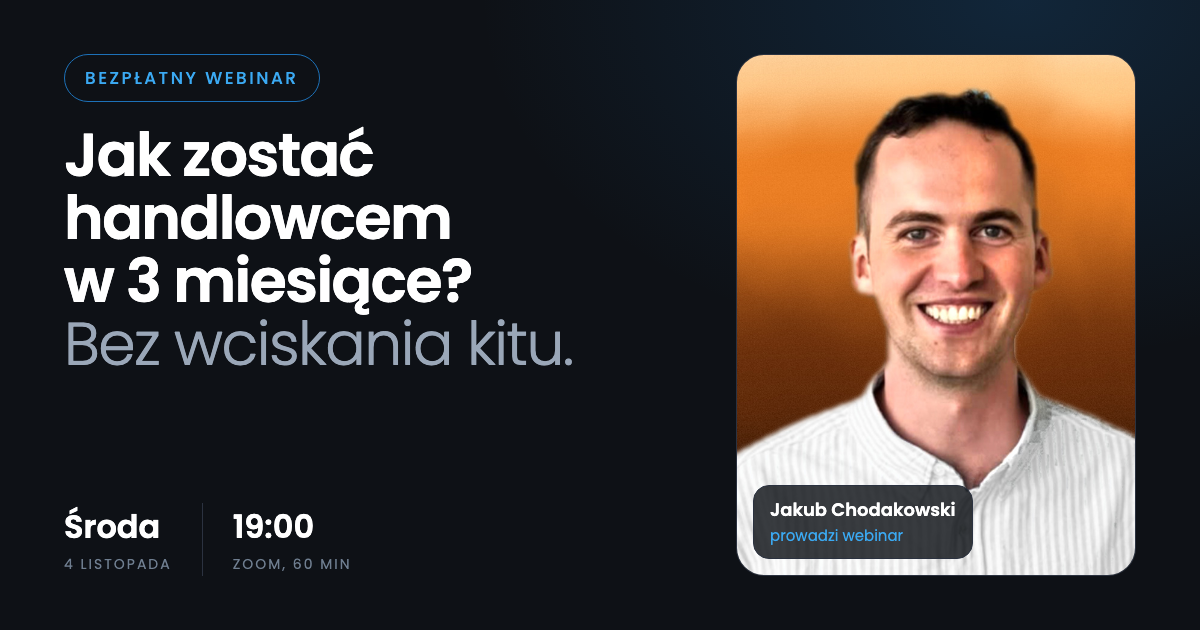
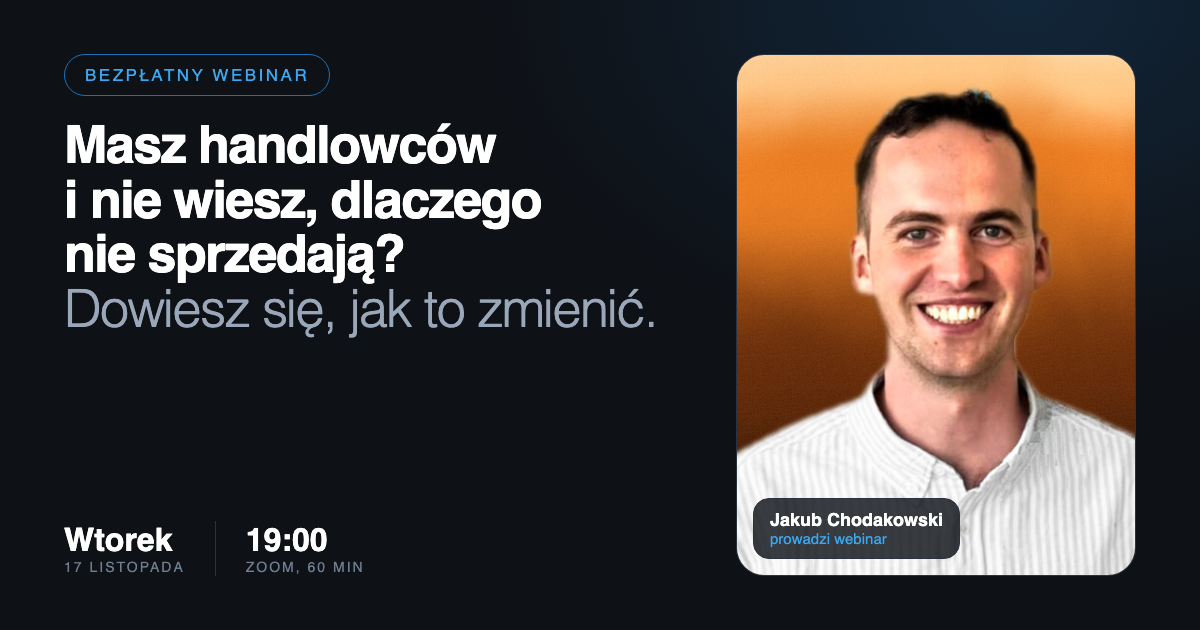
Bruno: webinar dla firm wt 17.11 19:00 „Masz handlowców i nie wiesz, dlaczego nie sprzedają?” (LP, maile, cron, OG, nowy Zoom, bez testu predyspozycji)

diff --git a/lib/bruno/mail-webinar.ts b/lib/bruno/mail-webinar.ts
@@ -19,7 +19,7 @@ export const ADRES_WEBINARU = "jakub@salesbruno.com";
 export const NADAWCA_WEBINARU = `Jakub Chodakowski <${ADRES_WEBINARU}>`;
 /** Klauzula z pop-upu, powtórzona w mailu potwierdzającym (Aniserowicz 02-07: „bo nie wiemy, kto wpisał adres”). */
 export const KLAUZULA_WEBINARU =
-  "Zapisując się, wyrażasz zgodę na otrzymywanie od Jakuba Chodakowskiego wiadomości o tym webinarze i o szkoleniach sprzedaży z AI. Administratorem Twoich danych jest Jakub Chodakowski. Dane będą przetwarzane do celów związanych z webinarem i wysyłką wiadomości. Jeśli to nie Ty podałeś ten adres, po prostu zignoruj tę wiadomość: bez kliknięcia nic więcej nie wyślę.";
+  "Zapisując się, wyrażasz zgodę na otrzymywanie od Jakuba Chodakowskiego wiadomości o tym webinarze i o treningu handlowców z AI. Administratorem Twoich danych jest Jakub Chodakowski. Dane będą przetwarzane do celów związanych z webinarem i wysyłką wiadomości. Jeśli to nie Ty podałeś ten adres, po prostu zignoruj tę wiadomość: bez kliknięcia nic więcej nie wyślę.";
 
 const F = "-apple-system,BlinkMacSystemFont,'Segoe UI',Helvetica,Arial,sans-serif";
 const esc = (s: string) => String(s ?? "").replace(/&/g, "&amp;").replace(/</g, "&lt;").replace(/>/g, "&gt;");
@@ -92,12 +92,14 @@ export function mailWebinarPotwierdz(a: { imie: string | null; link: string }): 
         przyciskPotwierdz("Potwierdzam zapis", a.link),
         p("<b>Co dalej:</b>"),
         lista([
-          "Po kliknięciu od razu zobaczysz link do spotkania na Zoomie i krótki test (4 pytania), który omówię na webinarze.",
+          WEBINAR.test
+            ? "Po kliknięciu od razu zobaczysz link do spotkania na Zoomie i krótki test (4 pytania), który omówię na webinarze."
+            : "Po kliknięciu od razu dostaniesz mail z linkiem do spotkania na Zoomie i planem 60 minut.",
           `Dzień przed (${WEBINAR.dataPLDzienPrzed.slice(8)}.11) i godzinę przed startem przypomnę mailem.`,
           "Nagrania nie będzie, więc wpisz termin do kalendarza (linki będą w następnym mailu).",
         ]),
         p(`Jeśli ta wiadomość trafiła do „Ofert” albo spamu, przenieś ją do głównej skrzynki i dodaj adres <b>${ADRES_WEBINARU}</b> do kontaktów. Wtedy link i przypomnienia też tam trafią.`),
-        p("Widzimy się w środę."),
+        p(`Widzimy się ${WEBINAR.dzienWe}.`),
       ].join("\n"),
     }),
   };
@@ -122,7 +124,10 @@ export function mailWebinarPotwierdzenie(a: Odbiorca): MailWebinaru {
         kalendarz(a.baza),
         p("<b>Plan 60 minut:</b>"),
         lista(WEBINAR.plan.map(([g, h]) => `<b>${esc(g)}</b> ${esc(h)}`)),
-        a.test
+        // 10.11: webinar dla firm (bez testu) = jedna liczba do policzenia przed spotkaniem.
+        !WEBINAR.test
+          ? p("Zanim się spotkamy, zrób jedną rzecz: policz, <b>ilu Twoich handlowców zrobiło w zeszłym miesiącu wynik, którego oczekujesz</b>. Jeśli robi go jeden z trzech, to nie jest problem rynku, tylko umiejętności reszty. Od tego zaczniemy o 19:00.")
+          : a.test
           ? p(`Zanim się spotkamy, zrób jedną rzecz: <b>test „Jakim jesteś handlowcem?”</b>, 4 pytania. Na początku webinaru omawiam wyniki. <a href="${esc(a.test)}" style="color:#111111;font-weight:700">Robię test »</a>`)
           : p("Twój wynik testu już mam. Na początku webinaru powiem, co z niego wynika."),
       ].join("\n"),
@@ -135,7 +140,9 @@ export function mailWebinarJutro(a: Odbiorca): MailWebinaru {
   return {
     temat: `Jutro ${WEBINAR.godzina}: ${WEBINAR.tytul.toLowerCase()}`,
     html: koperta({
-      ps: a.test
+      ps: !WEBINAR.test
+        ? "Odpisz na tego maila jednym zdaniem: <b>co sprzedajecie i jaką obiekcję słyszycie najczęściej</b>. Czytam każdą odpowiedź."
+        : a.test
         ? `Nie masz jeszcze wyniku testu (4 pytania), a od niego zaczynam: <a href="${esc(a.test)}" style="color:#111111;font-weight:700">robię test »</a>`
         : "Odpisz na tego maila jednym zdaniem: <b>co Cię najbardziej powstrzymuje przed pracą w sprzedaży</b>. Czytam każdą odpowiedź i odpowiem na webinarze.",
       zajawka: "Link do Zooma w środku. 60 minut, bez nagrania.",
@@ -145,7 +152,7 @@ export function mailWebinarJutro(a: Odbiorca): MailWebinaru {
         p(`jutro o <b>${esc(WEBINAR.godzina)}</b> widzimy się na Zoomie. Nagrania nie będzie, więc zarezerwuj godzinę w kalendarzu.`),
         linia("Link do spotkania na Zoomie", WEBINAR.zoom),
         kalendarz(a.baza),
-        p("Na żywo pokażę pierwszą rozmowę z klientem AI, który mówi „nie mam czasu” i „muszę się zastanowić”. Zobaczysz, że tego da się nauczyć."),
+        p(WEBINAR.test ? "Na żywo pokażę pierwszą rozmowę z klientem AI, który mówi „nie mam czasu” i „muszę się zastanowić”. Zobaczysz, że tego da się nauczyć." : "Na żywo pokażę rozmowę handlowca z klientem AI. Klient AI może być z Twojej branży."),
       ].join("\n"),
     }),
   };
@@ -167,7 +174,7 @@ export function mailWebinarDzis(a: Odbiorca): MailWebinaru {
         lista([
           "Komputer albo telefon z Zoomem (działa też w przeglądarce).",
           "Słuchawki.",
-          a.test ? `Wynik testu „Jakim jesteś handlowcem?”: <a href="${esc(a.test)}" style="color:#111111">zrób go teraz, 4 pytania</a>.` : "Twój wynik testu, który już zrobiłeś.",
+          !WEBINAR.test ? "Liczba: ilu handlowców zrobiło w zeszłym miesiącu wynik, którego oczekujesz." : a.test ? `Wynik testu „Jakim jesteś handlowcem?”: <a href="${esc(a.test)}" style="color:#111111">zrób go teraz, 4 pytania</a>.` : "Twój wynik testu, który już zrobiłeś.",
         ]),
       ].join("\n"),
     }),
@@ -204,27 +211,23 @@ export type GrupaPoWebinarze = "byli" | "wyszli" | "nieprzyszli";
 
 /**
  * M5: dzień po webinarze, 3 grupy (wzór Huzarski, PLAN 16.10): byli do końca / wyszli przed końcem / zapisali się i nie przyszli.
- * 31.10 (USER_001): webinar dla grupy A, więc jedno wezwanie = szkolenie 3 mies. z gwarancją pracy (WEBINAR.oferta).
- * Nagrania NIE wysyłamy. Bez sztucznych terminów (UOKiK): cena i warunki jak na stronie szkolenia.
+ * 10.11 (USER_001): webinar dla firm, jedno wezwanie = spotkanie online 20 min z demo (WEBINAR.demo). Nagrania NIE wysyłamy.
+ * Wersja dla przyszłych handlowców (31.10, szkolenie 3 mies.) w historii git.
  */
 export function mailWebinarPo(a: { imie: string | null; grupa: GrupaPoWebinarze; wypisz?: string }): MailWebinaru {
-  const oferta = linia("Zobacz szkolenie i swoją ścieżkę", WEBINAR.oferta);
-  const warunki = lista([
-    "3 miesiące treningu rozmów z klientem AI, ścieżka pod Twoją branżę.",
-    "Egzamin i certyfikat, gdy zdasz na 80 %.",
-    "Łączymy Cię z firmą. Brak oferty pracy w 30 dni od certyfikatu = zwrot całej kwoty.",
-  ]);
+  const demo = linia("Umawiam spotkanie (20 minut)", WEBINAR.demo);
   if (a.grupa === "byli")
     return {
-      temat: "Dziękuję za wczoraj. Twój następny krok",
+      temat: "Dziękuję za wczoraj. Następny krok dla Twojego zespołu",
       html: koperta({
-        ps: "Masz pytanie o swoją sytuację? Odpisz na tego maila, odpowiadam sam.",
+        ps: "Masz pytanie o swój zespół? Odpisz na tego maila, odpowiadam sam.",
         wypisz: a.wypisz,
         tresc: [
           p(hej(a.imie)),
-          p("dziękuję, że byłeś do końca. Tak jak mówiłem: jeśli chcesz wejść do sprzedaży w 3 miesiące, a nie uczyć się na prawdziwych klientach, masz to w szkoleniu:"),
-          warunki,
-          oferta,
+          p("dziękuję, że byłeś do końca. Tak jak mówiłem na koniec: możesz umówić <b>bezpłatne spotkanie online</b>, 20 minut."),
+          p("<b>Jak wygląda spotkanie:</b>"),
+          lista(["Mówisz mi, co sprzedajecie i na czym handlowcy tracą klienta.", "Klient AI gra Waszego klienta z Waszą obiekcją, na żywo.", "Ustalamy, czy to ma u Was sens. Jeśli nie, mówię to wprost."]),
+          demo,
         ].join("\n"),
       }),
     };
@@ -236,22 +239,22 @@ export function mailWebinarPo(a: { imie: string | null; grupa: GrupaPoWebinarze;
         wypisz: a.wypisz,
         tresc: [
           p(hej(a.imie)),
-          p("widziałem, że wyszedłeś przed końcem. Nagrania nie ma, więc w skrócie: na koniec pokazałem plan na 3 miesiące, od zera do pierwszej pracy w sprzedaży:"),
-          warunki,
-          oferta,
+          p("widziałem, że wyszedłeś przed końcem. Nagrania nie ma, więc w 3 punktach, co było potem:"),
+          lista(["Na żywo: handlowiec rozmawiał z klientem AI, po rozmowie ocena i 3 rzeczy do poprawy.", "Co szef widzi w liczbach: kto ćwiczył, kto nie domyka, kto robi postęp.", "Następny krok: bezpłatne spotkanie online, 20 minut."]),
+          demo,
         ].join("\n"),
       }),
     };
   return {
-    temat: "Nie było Cię wczoraj. Nagrania nie ma, ale jest plan",
+    temat: "Nie było Cię wczoraj. Nagrania nie ma, ale jest coś lepszego",
     html: koperta({
-      ps: "Masz pytanie o swoją sytuację? Odpisz na tego maila.",
+      ps: "Masz pytanie o swój zespół? Odpisz na tego maila.",
       wypisz: a.wypisz,
       tresc: [
         p(hej(a.imie)),
-        p("zapisałeś się na wczorajszy webinar, ale Cię nie było. Nagrania nie ma. Najważniejsze w skrócie: jak w 3 miesiące wejść do sprzedaży bez doświadczenia."),
-        warunki,
-        oferta,
+        p("zapisałeś się na wczorajszy webinar, ale Cię nie było. Nagrania nie ma. Jest za to <b>20 minut na Twój zespół</b>, nie ogólny wykład:"),
+        lista(["Sprawdzimy, na którym etapie Twoi handlowcy tracą klientów.", "Klient AI zagra Waszego klienta na żywo.", "Powiem wprost, czy to ma u Was sens."]),
+        demo,
       ].join("\n"),
     }),
   };

diff --git a/components/bruno/webinar-lp-zapis.tsx b/components/bruno/webinar-lp-zapis.tsx
@@ -24,37 +24,29 @@ const ICS = "/api/bruno/webinar/ics";
 /** Nadawca maila z linkiem Zoom (do strony „Dzięki” i okienka). */
 export const NADAWCA_ADRES = "jakub@salesbruno.com";
 
-// 31.10 (USER_001): webinar B2B odwołany, strona = webinar dla grupy A (chcą ZOSTAĆ handlowcami). Teksty z badania
-// SalesAI/sprzedaz/badanie-b2c/A-cytaty.md: „czy mnie wezmą bez doświadczenia” (33), prowizja na minusie (21),
-// „wciskanie kitu” (19), strach przed telefonem (11), zarobki 4 500-8 000 zł (17).
+// 10.11 (USER_001): webinar dla firm wraca, wt 17.11. Odbiorca = każdy, kto ma handlowców (liczba obojętna).
+// Teksty pod właściciela: kontrola i liczby (Ewatex 28.10, Mauricio 29.10). Wersja dla przyszłych handlowców (31.10) w historii git.
 const T = {
-  badge: "Dla osób, które chcą zacząć pracę w sprzedaży",
-  h1: "Jak zostać handlowcem\nw 3 miesiące?",
-  h1Szary: "Bez wciskania kitu.", // 31.10 (USER_001)
+  badge: "Dla właścicieli firm i szefów sprzedaży",
+  h1: "Masz handlowców i nie wiesz,\ndlaczego nie sprzedają?",
+  h1Szary: WEBINAR.podtytul,
   wstep: "W 60 minut, na żywo, dowiesz się:",
   punkty: [
-    "czy nadajesz się do sprzedaży i w jakiej branży odnajdziesz się najlepiej",
-    "ile zarabia początkujący handlowiec i jak wybrać firmę z dobrą pensją i prowizją",
-    "jak przestać bać się telefonu do obcej osoby",
-    "jak w 3 miesiące przejść od zera do pierwszej pracy w sprzedaży",
+    "dlaczego handlowcy nie sprzedają: nie umieją, nie chcą czy brakuje im systemu",
+    "na którym etapie rozmowy uciekają Ci klienci",
+    "jak AI ćwiczy z handlowcem rozmowę, zanim pójdzie do klienta",
+    "jak widzieć pracę każdego handlowca w liczbach, bez pilnowania go",
   ],
   przycisk: "Chcę zarezerwować miejsce »",
-  plan: [
-    ["19:00", "Czy nadajesz się do sprzedaży? 3 style handlowca"],
-    ["19:15", "Ile naprawdę zarabia początkujący handlowiec"],
-    ["19:30", "Plan na 3 miesiące: od zera do pierwszej pracy"],
-    ["19:45", "Na żywo: pierwsza rozmowa z klientem AI"],
-    ["20:00", "Pytania"],
-  ] as [string, string][],
-  // 31.10 (USER_001): bio = krótko doświadczenie, bez Bruno. Fakty z CV (components/about-me.tsx).
-  prowadzacy: "Gdy miałem 16 lat, zaczynałem od sprzedaży waty cukrowej na końcu molo w Kołobrzegu. Później była fotowoltaika, startupy i sprzedaż do urzędów miast. Przeszedłem przez wszystkie rodzaje sprzedaży i wiem jedno: sprzedaży może nauczyć się każdy.",
-  // 31.10 (USER_001): liczba o zarobkach handlowców, związana z tematem webinaru.
-  // 31.10 (USER_001): konkretna liczba ofert zamiast %. 19 % z 762 827 ogłoszeń Pracuj.pl w 2025 = ok. 145 000.
-  liczba: ["145 000", "Tyle ofert pracy w sprzedaży opublikowano w 2025 roku na samym Pracuj.pl. Sprzedaż to najczęściej rekrutowana specjalizacja w Polsce. Praca czeka.", "Pracuj.pl, rynek pracy w sprzedaży 2025: 19 % z 762 827 ogłoszeń"] as [string, string, string],
+  plan: WEBINAR.plan.map(([g, h]) => [g, h]) as [string, string][],
+  prowadzacy: "Sam byłem handlowcem, którego szef szkolił jednym spotkaniem: prezentacja i „radź sobie sam”. Dziś zbudowałem AI, które gra klienta i ocenia rozmowę, a szef widzi wynik w panelu.",
+  // Badanie dotyczy pracowników obsługi klienta: średnio +14 %, początkujący +34 %.
+  liczba: ["+34 %", "Tyle więcej spraw na godzinę załatwiali początkujący pracownicy obsługi klienta, którym pomagało AI.", "Brynjolfsson, Li, Raymond, Quarterly Journal of Economics, 2025, 5 179 osób"] as [string, string, string],
   faq: [
-    ["Nie mam żadnego doświadczenia. Czy to dla mnie?", "Tak. Webinar jest właśnie dla osób, które zaczynają od zera: po szkole, z produkcji, ze sklepu, z call center."],
+    ["Mam tylko 2 handlowców. Czy to dla mnie?", "Tak. Wystarczy jeden handlowiec. Liczba osób w zespole jest bez znaczenia."],
     ["Gdzie się odbywa?", "Online, na Zoomie. Link otrzymasz na e-mail zaraz po potwierdzeniu zapisu, a potem przypomnienie dzień przed i godzinę przed. Wystarczy telefon albo komputer, kamera jest zbędna."],
     ["Czy będzie nagranie?", "Webinar jest tylko na żywo, bez nagrania, dlatego zapisz go w kalendarzu."],
+    ["Moi handlowcy omijają nawet CRM. To też ominą.", "CRM omijają, bo to dla nich dodatkowa robota bez korzyści dla nich samych. Tu handlowiec od razu dostaje ocenę, co poprawić, żeby sprzedawać więcej. A Ty widzisz, kto ćwiczył. Na webinarze pokażę, jak to uruchomić."],
   ] as [string, string][],
   // Pop-up (Aniserowicz 02.04: nagłówek, zdjęcie, „sprawdź maila”, pola, wielki przycisk, klauzula).
   okno: {
@@ -62,7 +54,7 @@ const T = {
     pod: `${WEBINAR.dzien}, ${WEBINAR.dataDluga}, ${WEBINAR.godzina}, Zoom`,
     przypomnienie: "Po zapisie kliknij „Potwierdzam zapis” w e-mailu. Wtedy otrzymasz link do spotkania.",
     przycisk: "Zapisuję się »",
-    klauzula: "Zapisując się, wyrażasz zgodę na otrzymywanie od Jakuba Chodakowskiego wiadomości o tym webinarze i o szkoleniach sprzedaży z AI. Administratorem Twoich danych jest Jakub Chodakowski. Dane będą przetwarzane do celów związanych z webinarem i wysyłką wiadomości.",
+    klauzula: "Zapisując się, wyrażasz zgodę na otrzymywanie od Jakuba Chodakowskiego wiadomości o tym webinarze i o treningu handlowców z AI. Administratorem Twoich danych jest Jakub Chodakowski. Dane będą przetwarzane do celów związanych z webinarem i wysyłką wiadomości.",
   },
 };
 
@@ -141,7 +133,7 @@ export default function WebinarLpZapis({ motyw = "pomarancz", dziekiUrl }: { mot
       body: JSON.stringify({
         imie: f.get("imie"),
         email: f.get("email"),
-        grupa: "kursy",
+        grupa: "firmy",
         // Zgoda = kliknięcie przycisku pod klauzulą (Aniserowicz: klauzula zamiast checkboxa).
         zgoda: true,
         www: f.get("www"),
@@ -399,7 +391,7 @@ export function WebinarDziekiBardzo({ motyw = "pomarancz", token }: { motyw?: Mo
           {WEBINAR.zoom}
         </a>
         {/* 31.10 (USER_001): test predyspozycji zaraz po potwierdzeniu, przed webinarem. O 19:00 omawiam wyniki. */}
-        {token && (
+        {token && WEBINAR.test && (
           <section className={s.dziekiTest} id="test">
             {/* 31.10 (USER_001): w 2 liniach, bez „10 pytań, 2 minuty”. */}
             <h2 className={s.h2Duzy}>

diff --git a/lib/bruno/webinar.ts b/lib/bruno/webinar.ts
@@ -5,44 +5,47 @@
 // 31.10 (USER_001: „nie robimy tego dla b2b, w to miejsce wejdzie ten”): webinar B2B ODWOŁANY, ten sam termin i Zoom
 // = webinar dla grupy A (chcą ZOSTAĆ handlowcami, badanie SalesAI/sprzedaz/badanie-b2c/). Nowy klucz, żeby testowe
 // zapisy B2B z 29.10 nie dostawały maili A. Po potwierdzeniu zapisu uczestnik robi test predyspozycji (przed webinarem).
+// 10.11 (USER_001: „będziemy robić webinary sprzedażowe o Bruno AI”): webinar DLA FIRM wraca, wt 17.11 19:00 czasu polskiego
+// (CET = UTC+1, start 18:00 UTC). Odbiorca: każdy, kto ma handlowców (liczba obojętna). Nowy klucz, nowy Zoom od USER_001.
 export const WEBINAR = {
   /** Klucz webinaru w bazie (`bruno_webinar_zapisy.webinar`). */
-  klucz: "2026-11-04-kursy",
-  start: Date.UTC(2026, 10, 4, 18, 0, 0),
-  koniec: Date.UTC(2026, 10, 4, 19, 0, 0),
-  dzien: "środa",
-  dzienKrotko: "śr",
-  data: "4.11",
-  dataDluga: "4 listopada",
+  klucz: "2026-11-17-firmy",
+  start: Date.UTC(2026, 10, 17, 18, 0, 0),
+  koniec: Date.UTC(2026, 10, 17, 19, 0, 0),
+  dzien: "wtorek",
+  dzienKrotko: "wt",
+  /** „Widzimy się we wtorek.” (maile). */
+  dzienWe: "we wtorek",
+  data: "17.11",
+  dataDluga: "17 listopada",
   /** Data PL dnia webinaru i dnia przed (do crona), format en-CA = RRRR-MM-DD. */
-  dataPL: "2026-11-04",
-  dataPLDzienPrzed: "2026-11-03",
+  dataPL: "2026-11-17",
+  dataPLDzienPrzed: "2026-11-16",
   godzina: "19:00",
-  ics: "20261104T180000Z",
-  icsKoniec: "20261104T190000Z",
-  // 29.10 (USER_001: „tytuł zmieniamy”): wzór Popiela „Jak [korzyść] bez [ból]”. Zastępuje „…planu sprzedaży dzięki AI” (27.10).
-  // Temat w Zoomie zmienia USER_001 ręcznie. Grafiki (OG, post, reklamy) przerobione 29.10.
-  // 31.10: grupa A. Wzór Popiela „Jak [korzyść] bez [ból]”: ból nr 1 = brak doświadczenia (33 cytaty), nr 4 = „wciskanie kitu” (19).
-  tytul: "Jak zostać handlowcem w 3 miesiące", // 31.10: jak temat w Zoomie
+  ics: "20261117T180000Z",
+  icsKoniec: "20261117T190000Z",
+  // 10.11 (USER_001: „dobre!”): tytuł = pytanie właściciela. Temat w Zoomie zmienia USER_001 ręcznie.
+  tytul: "Masz handlowców i nie wiesz, dlaczego nie sprzedają?",
   /** Druga linia pod tytułem (szara). */
-  podtytul: "Bez wciskania kitu.",
-  // 27.10 (USER_001): link Zoom ustawiony przez USER_001.
-  zoom: "https://us05web.zoom.us/j/81028613140?pwd=6DyIsCre9Ufkias6LaP8erbpvbSFZt.1",
-  zoomId: "810 2861 3140",
-  /** Następny krok po webinarze: szkolenie 3 mies. z gwarancją pracy (31.10, grupa A). */
-  oferta: "https://salesbruno.pl/kursy?src=webinar",
+  podtytul: "Dowiesz się, jak to zmienić.",
+  // 10.11 (USER_001): link Zoom od USER_001.
+  zoom: "https://us05web.zoom.us/j/89634931441?pwd=3uCuaZZaWivaaCfaA0naLy7lL4NAPI.1",
+  zoomId: "896 3493 1441",
+  /** Test predyspozycji po potwierdzeniu zapisu (31.10, webinar dla przyszłych handlowców). Webinar dla firm: bez testu. */
+  test: false,
+  /** Następny krok po webinarze: spotkanie online 20 min z demo (Negacz: na końcu jedno wezwanie). */
+  demo: "https://salesbruno.pl/spotkanie?src=webinar",
   /** Strona zapisu (do maili i postów). */
   lp: "https://salesbruno.pl/webinar",
   /** Plan 60 minut (LP + mail potwierdzenia). */
-  // 29.10 (USER_001, rozmowa z Mauricio): plan pod właściciela / dyrektora: kontrola, dane, czas szefa, „nikt nie będzie z tego korzystał”.
-  // 31.10: plan pod grupę A, z lęków z badania (czy się nadam, prowizja na minusie, strach przed telefonem, wciskanie kitu).
+  // 10.11: plan pod właściciela: kontrola i liczby (wniosek z Ewatex 28.10 i Mauricio 29.10), słowo „szkolenie” odstrasza.
   plan: [
     // Każdy punkt kończy się efektem „dzięki temu…” (Popiel M8 L01).
-    ["19:00", "Czy nadajesz się do sprzedaży? 3 style handlowca", "Omawiam wyniki testu, który zrobisz przed webinarem: Łowca, Doradca, Negocjator. Dzięki temu wiesz, w jakiej sprzedaży odnajdziesz się najlepiej, zanim wyślesz pierwsze CV."],
-    ["19:15", "Ile naprawdę zarabia początkujący handlowiec", "Branże, widełki, pensja podstawowa kontra sama prowizja. Dzięki temu wybierzesz firmę z dobrą pensją, uczciwą prowizją i autem służbowym."],
-    ["19:30", "Plan na 3 miesiące: od zera do pierwszej pracy", "Co robisz tydzień po tygodniu, egzamin, certyfikat i jak łączymy Cię z firmą. Dzięki temu wiesz dokładnie, gdzie będziesz w 4. miesiącu."],
-    ["19:45", "Na żywo: pierwsza rozmowa z klientem AI", "AI gra klienta, który mówi „nie mam czasu” i „muszę się zastanowić”. Po rozmowie ocena i 3 rzeczy do poprawy. Dzięki temu zobaczysz, że strach przed telefonem da się wyćwiczyć, zanim zadzwonisz do prawdziwego klienta."],
-    ["20:00", "Pytania", "Pytasz o swoją sytuację. Odpowiadam na żywo."],
+    ["19:00", "3 powody, dla których handlowcy nie sprzedają", "Nie umie, nie chce albo system nie działa. Dzięki temu rozpoznasz, który problem masz u siebie, zanim zatrudnisz kogoś nowego."],
+    ["19:15", "Na którym etapie uciekają klienci", "Lejek sprzedaży etap po etapie i handlowiec po handlowcu. Dzięki temu wiesz, co naprawić najpierw."],
+    ["19:30", "Na żywo: handlowiec kontra klient AI", "AI gra trudnego klienta. Po rozmowie ocena i 3 rzeczy do poprawy. Dzięki temu zobaczysz, jak handlowiec ćwiczy rozmowę przed spotkaniem z prawdziwym klientem."],
+    ["19:45", "Co szef widzi bez pytania „jak idzie?”", "Kto ćwiczył, kto nie domyka, kto robi postęp. Dzięki temu rozmowa z handlowcem zaczyna się od liczb."],
+    ["20:00", "Pytania i co dalej", "Pytasz o swój zespół. Odpowiadam na żywo."],
   ] as [string, string, string][],
 };
 

diff --git a/app/webinar/page.tsx b/app/webinar/page.tsx
@@ -4,9 +4,9 @@ import { WEBINAR } from "@/lib/bruno/webinar";
 
 // 16.10 (USER_001): LP webinaru, salesbruno.com/webinar. 21.10: Bruno = tylko B2B (17.10), więc ta sama wersja „firmy” co /webinar-firmy.
 // 21.10: termin i tytuł z lib/bruno/webinar.ts. 27.10: śr 4.11 19:00, temat „100 % planu sprzedaży” (decyzja 27.10).
-const tytul = `${WEBINAR.tytul}. Bezpłatny webinar, ${WEBINAR.dzien} ${WEBINAR.data}, ${WEBINAR.godzina}`;
-// 31.10 (USER_001): webinar B2B odwołany, ten adres = webinar dla osób, które chcą zostać handlowcami (grupa A).
-const opis = "60 minut na żywo dla osób, które chcą zacząć pracę w sprzedaży. Czy się nadajesz, ile zarabia początkujący handlowiec, pierwsza rozmowa z klientem AI na żywo i plan na 3 miesiące.";
+const tytul = `${WEBINAR.tytul} Bezpłatny webinar, ${WEBINAR.dzien} ${WEBINAR.data}, ${WEBINAR.godzina}`;
+// 10.11 (USER_001): webinar dla firm wraca (wt 17.11), odbiorca = każdy, kto ma handlowców.
+const opis = "60 minut na żywo dla właścicieli firm i szefów sprzedaży. Dlaczego handlowcy nie sprzedają, na którym etapie uciekają klienci i jak widzieć pracę zespołu w liczbach. Rozmowa handlowca z klientem AI na żywo.";
 
 export const metadata: Metadata = {
   metadataBase: new URL("https://salesbruno.com"),
@@ -20,7 +20,7 @@ export const metadata: Metadata = {
     siteName: "Jakub Chodakowski",
     locale: "pl_PL",
     type: "website",
-    images: [{ url: "/bruno/webinar-og.png?v=3110", width: 1200, height: 630, alt: `Webinar, ${WEBINAR.dzien} ${WEBINAR.data}, ${WEBINAR.godzina}` }],
+    images: [{ url: "/bruno/webinar-og.png?v=1011", width: 1200, height: 630, alt: `Webinar, ${WEBINAR.dzien} ${WEBINAR.data}, ${WEBINAR.godzina}` }],
   },
   robots: { index: false, follow: true },
 };

diff --git a/app/api/bruno/webinar/potwierdz/route.ts b/app/api/bruno/webinar/potwierdz/route.ts
@@ -35,7 +35,7 @@ export async function GET(req: Request) {
   // Mail z linkiem Zoom tylko raz (kolumna `mail_potwierdzenie`), nawet gdy ktoś kliknie link drugi raz.
   if (!z.mail_potwierdzenie) {
     try {
-      const m = mailWebinarPotwierdzenie({ imie: z.imie, baza, wypisz: `${baza}/api/bruno/webinar/wypisz?t=${token}`, test: `${baza}/webinar/dzieki-bardzo?t=${token}#test` });
+      const m = mailWebinarPotwierdzenie({ imie: z.imie, baza, wypisz: `${baza}/api/bruno/webinar/wypisz?t=${token}`, test: WEBINAR.test ? `${baza}/webinar/dzieki-bardzo?t=${token}#test` : undefined });
       await wyslij({ do: z.email, od: NADAWCA_WEBINARU, replyTo: ADRES_WEBINARU, rodzaj: "webinar", temat: m.temat, html: m.html });
       await supabaseAdmin.from("bruno_webinar_zapisy").update({ mail_potwierdzenie: new Date().toISOString() }).eq("id", z.id);
     } catch (e) {

diff --git a/lib/bruno/webinar-cron.ts b/lib/bruno/webinar-cron.ts
@@ -36,7 +36,7 @@ export async function webinarCron(teraz = new Date()): Promise<{ dzien: string; 
 
   for (const z of zapisy) {
     const wypisz = z.token ? `${baza}/api/bruno/webinar/wypisz?t=${z.token}` : undefined;
-    const test = z.token && !zTestem.has(z.email) ? `${baza}/webinar/dzieki-bardzo?t=${z.token}#test` : undefined;
+    const test = WEBINAR.test && z.token && !zTestem.has(z.email) ? `${baza}/webinar/dzieki-bardzo?t=${z.token}#test` : undefined;
     try {
       if (dzien === WEBINAR.dataPLDzienPrzed && !z.mail_jutro) {
         const m = mailWebinarJutro({ imie: z.imie, baza, wypisz, test });

diff --git a/app/podglad/webinar-zapis/page.tsx b/app/podglad/webinar-zapis/page.tsx
@@ -4,7 +4,7 @@ import { WEBINAR } from "@/lib/bruno/webinar";
 
 // 29.10 (USER_001): PODGLĄD krótkiej strony zapisu na webinar (wzór stron webinarowych, nie sprzedażowych).
 // Noindex. Jeśli wygra, zastępuje components/bruno/webinar-lp.tsx na /webinar.
-const tytul = `${WEBINAR.tytul}. Bezpłatny webinar, ${WEBINAR.dzien} ${WEBINAR.data}, ${WEBINAR.godzina}`;
+const tytul = `${WEBINAR.tytul} Bezpłatny webinar, ${WEBINAR.dzien} ${WEBINAR.data}, ${WEBINAR.godzina}`;
 
 export const metadata: Metadata = {
   title: `${tytul} | Jakub Chodakowski`,
